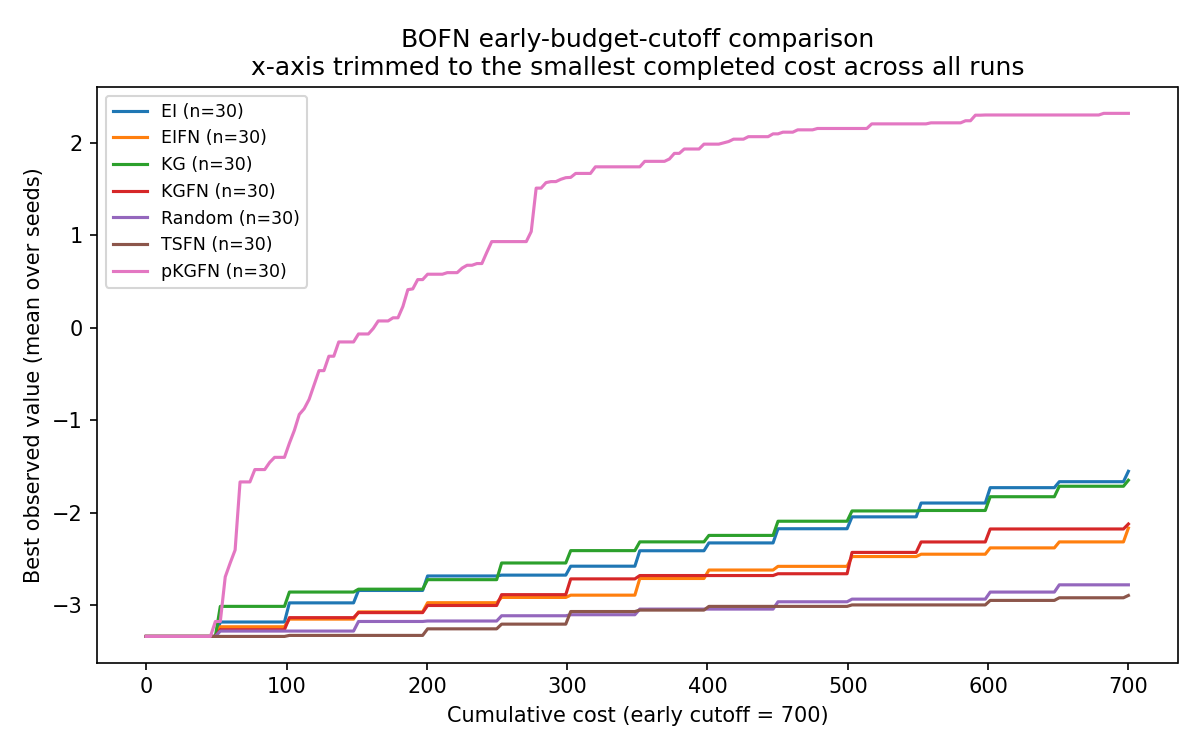
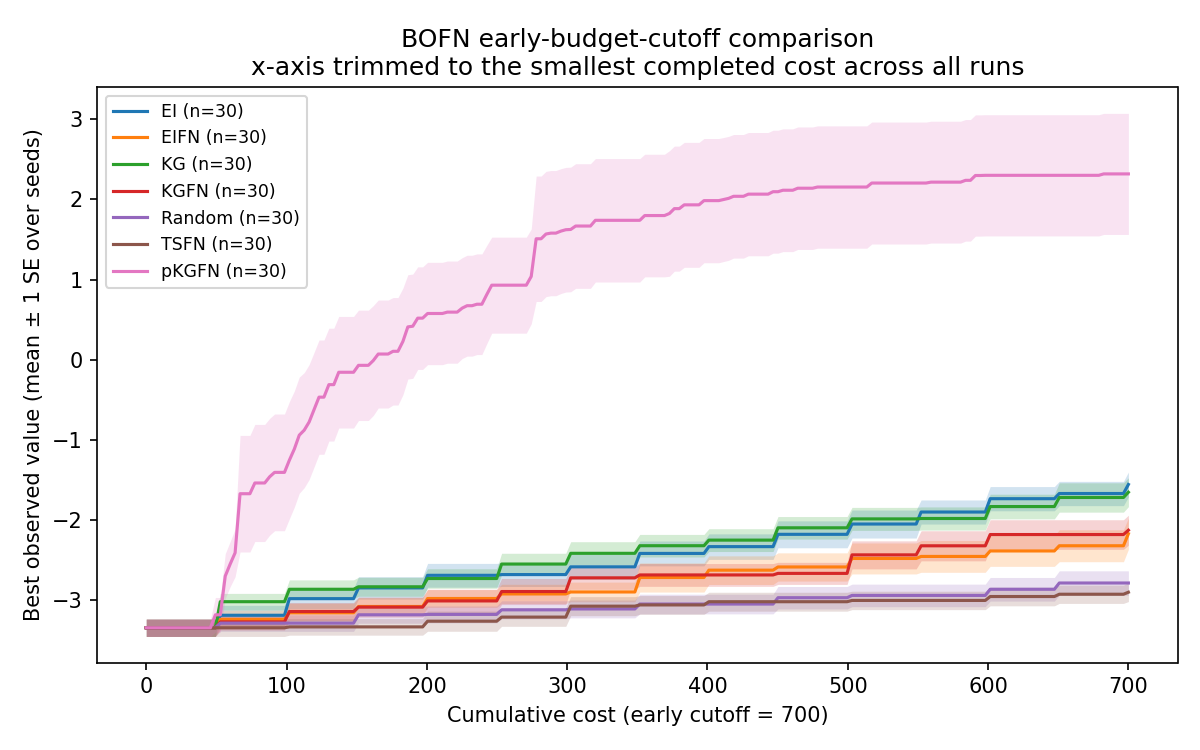
Add ±1 SE uncertainty bands to cost-efficiency and best-vs-cost plots
Agent-Logs-Url: https://github.com/vertical-cloud-lab/partial_kgfn/sessions/1454f503-8068-47f7-a6ee-14e3a5a267d0

Changed region(s): [[0.1233, 0.1227, 0.9558, 0.8587], [0.0, 0.3067, 0.0925, 0.828], [0.0, 0.184, 0.0308, 0.276]]

diff --git a/benchmarks/bofn_actions_benchmark.py b/benchmarks/bofn_actions_benchmark.py
@@ -332,10 +332,15 @@ def combine_results(input_dir: Path, out_dir: Path) -> None:
         xs = np.linspace(0.0, max_cost, 200)
         traj = np.vstack([_trajectory_step(r, xs) for r in runs])
         n_complete = sum(1 for r in runs if r.get("complete"))
-        ax.plot(xs, np.nanmean(traj, axis=0),
-                label=f"{algo} (n={len(runs)}, complete={n_complete})")
+        mean = np.nanmean(traj, axis=0)
+        n_eff = np.sum(~np.isnan(traj), axis=0)
+        sem = np.nanstd(traj, axis=0, ddof=1) / np.sqrt(np.maximum(n_eff, 1))
+        line, = ax.plot(xs, mean,
+                        label=f"{algo} (n={len(runs)}, complete={n_complete})")
+        ax.fill_between(xs, mean - sem, mean + sem,
+                        color=line.get_color(), alpha=0.2, linewidth=0)
     ax.set_xlabel("Cumulative cost")
-    ax.set_ylabel("Best observed value (mean over seeds)")
+    ax.set_ylabel("Best observed value (mean ± 1 SE over seeds)")
     ax.set_title(
         "BOFN cost-efficiency on AckleyS (paper pKGFN pipeline)\n"
         "extends each run to its own final cost; partial runs included"
@@ -369,9 +374,14 @@ def combine_results(input_dir: Path, out_dir: Path) -> None:
             continue
         xs = np.linspace(0.0, global_cutoff, 200)
         traj = np.vstack([_trajectory_step(r, xs) for r in runs])
-        ax.plot(xs, np.nanmean(traj, axis=0), label=f"{algo} (n={len(runs)})")
+        mean = np.nanmean(traj, axis=0)
+        n_eff = np.sum(~np.isnan(traj), axis=0)
+        sem = np.nanstd(traj, axis=0, ddof=1) / np.sqrt(np.maximum(n_eff, 1))
+        line, = ax.plot(xs, mean, label=f"{algo} (n={len(runs)})")
+        ax.fill_between(xs, mean - sem, mean + sem,
+                        color=line.get_color(), alpha=0.2, linewidth=0)
     ax.set_xlabel(f"Cumulative cost (early cutoff = {global_cutoff:g})")
-    ax.set_ylabel("Best observed value (mean over seeds)")
+    ax.set_ylabel("Best observed value (mean ± 1 SE over seeds)")
     ax.set_title(
         "BOFN early-budget-cutoff comparison\n"
         "x-axis trimmed to the smallest completed cost across all runs"
